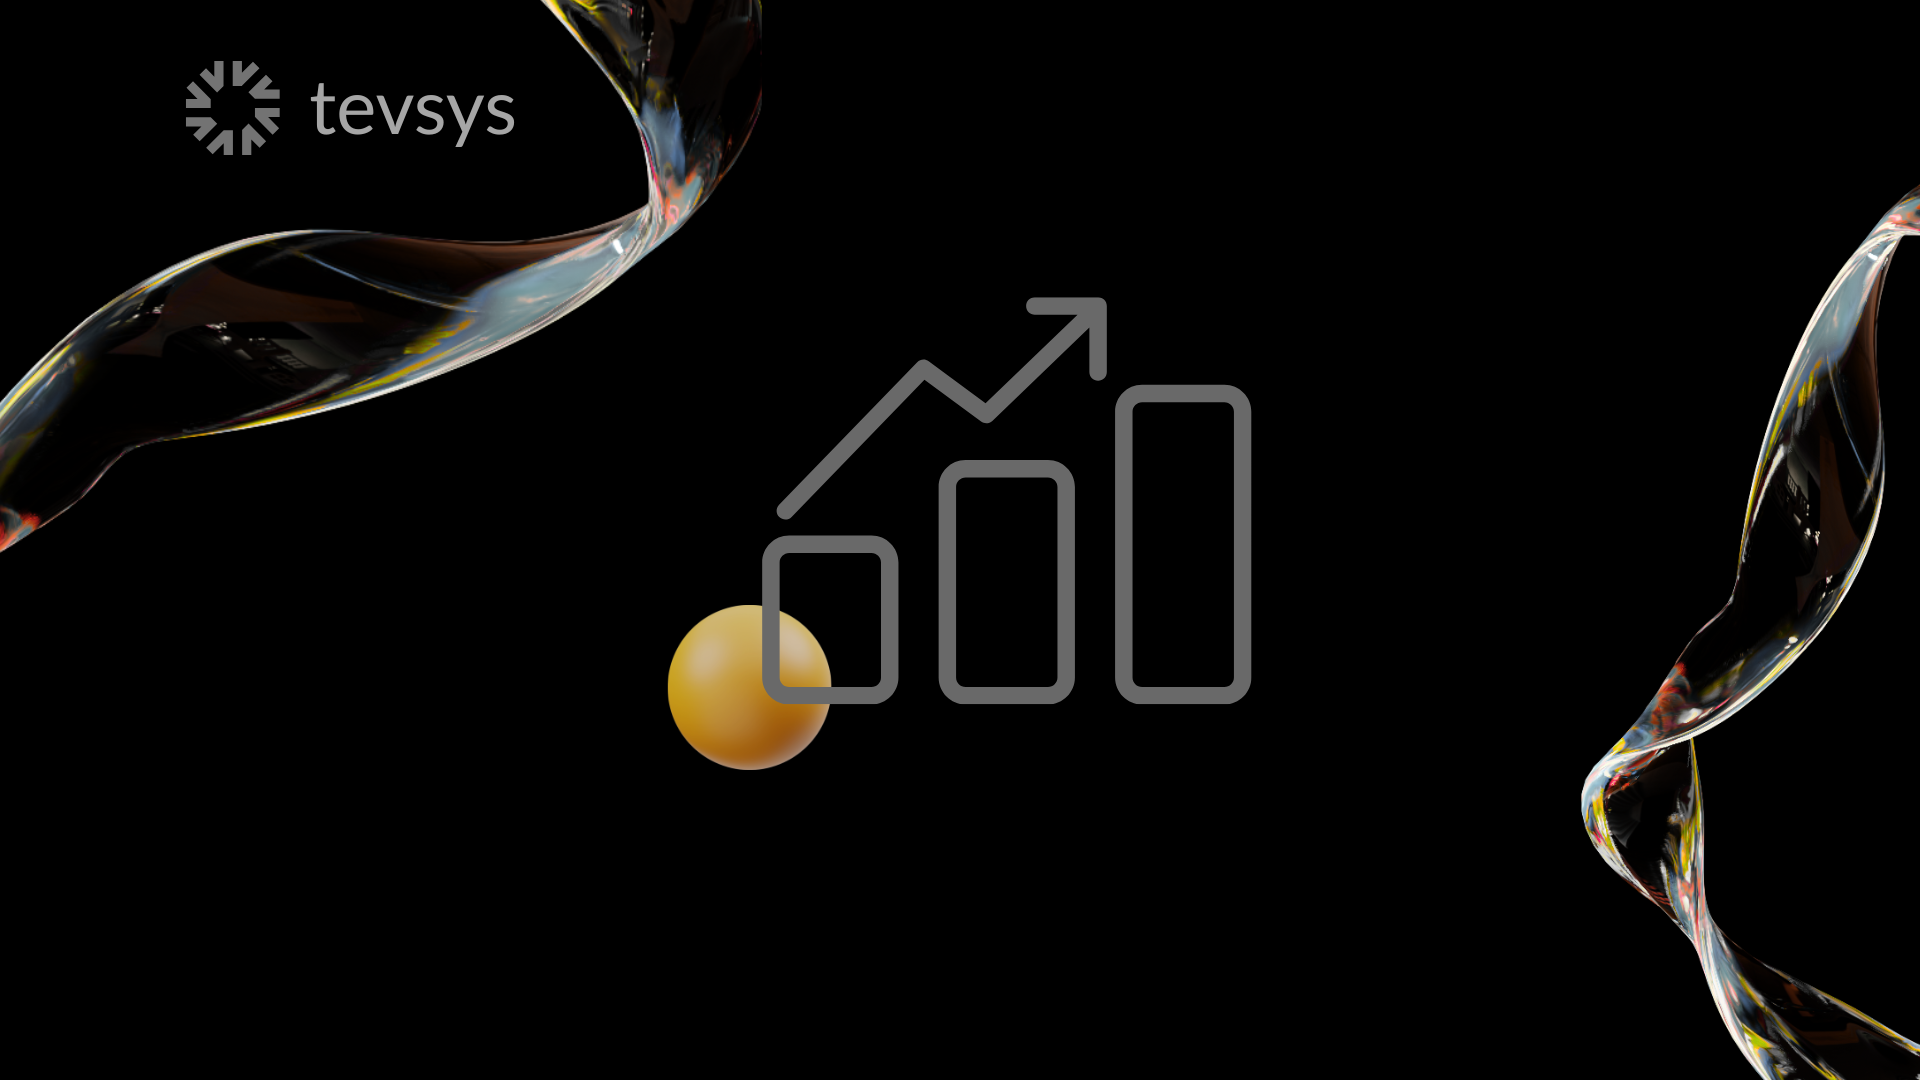
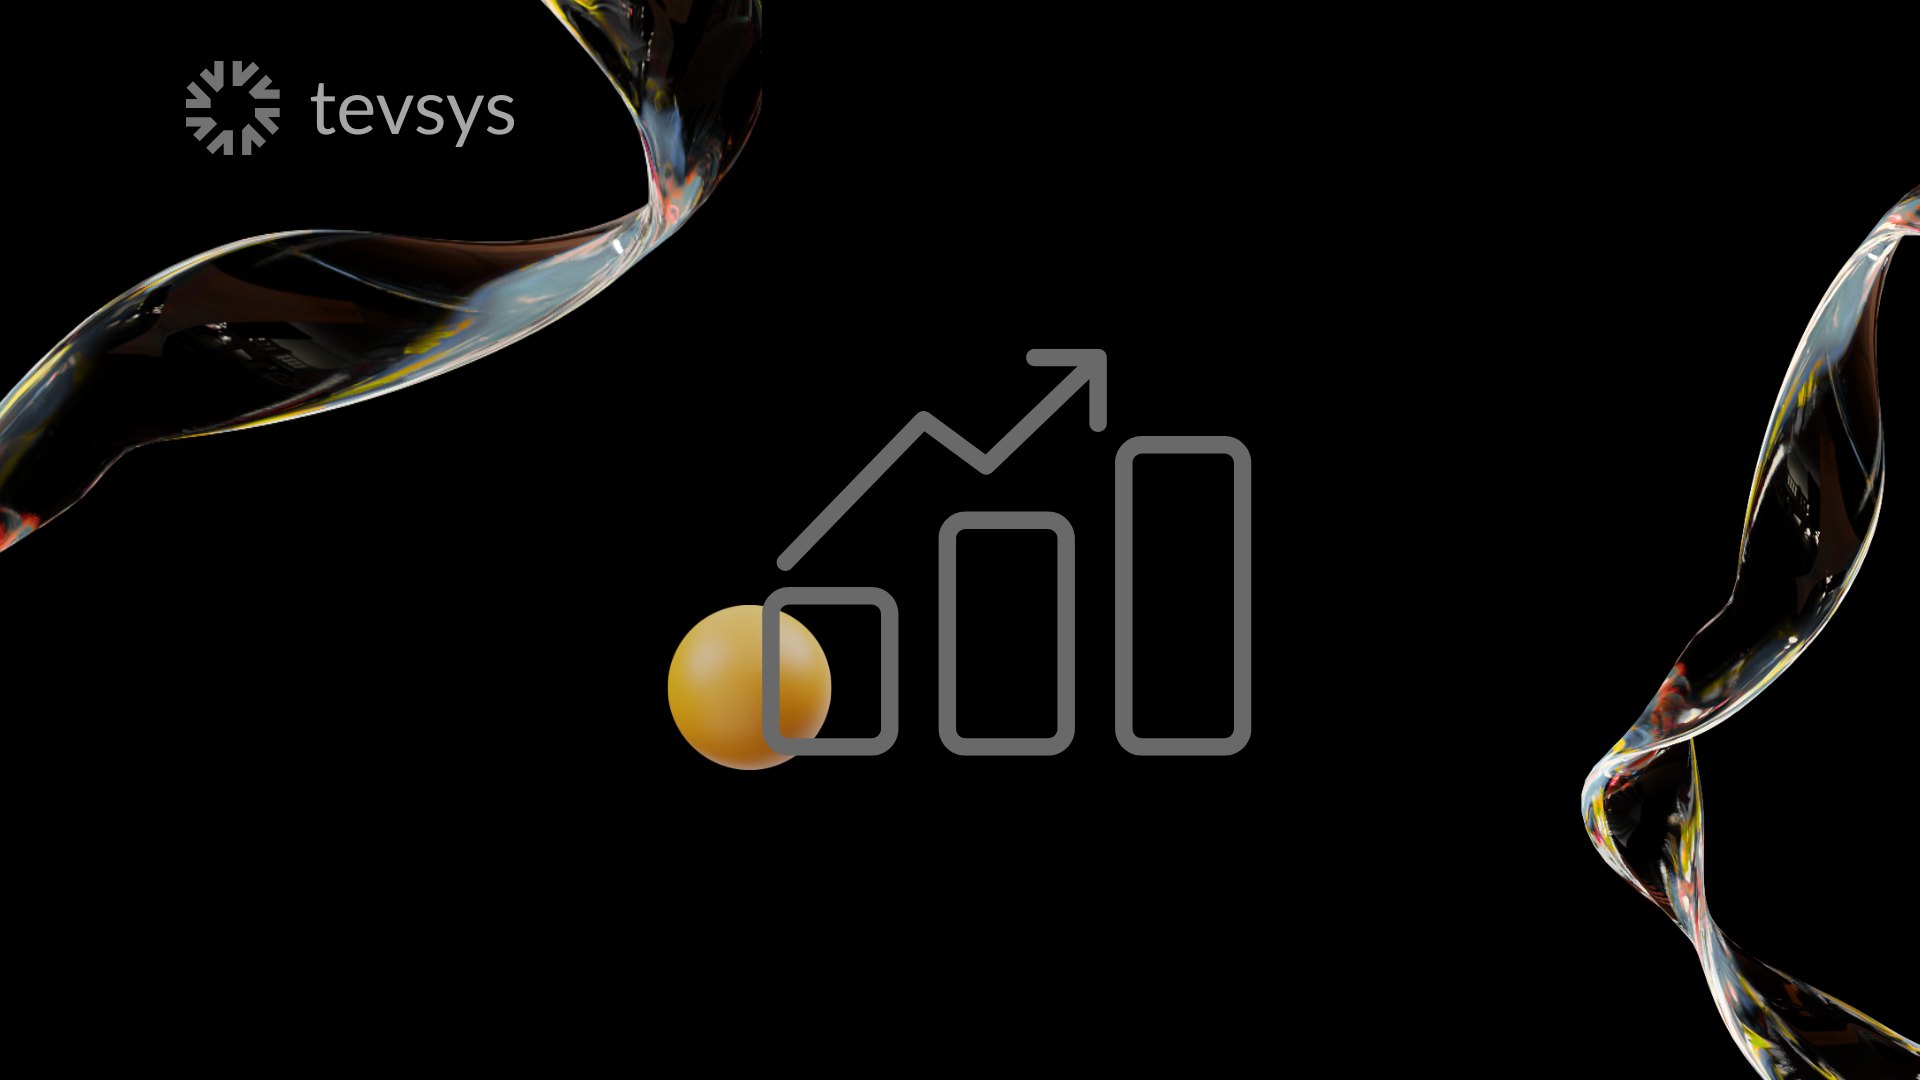
assets(web): card SML — gráfico reposicionado (card-3-sml v10)

Changed region(s): [[0.375, 0.275, 0.6562, 0.5806], [0.375, 0.6111, 0.6562, 0.7028]]

diff --git a/docs/ARREGLOS_WEB_TEVSYS_TODOS_LOS_ARCHIVOS.md b/docs/ARREGLOS_WEB_TEVSYS_TODOS_LOS_ARCHIVOS.md
@@ -18,7 +18,7 @@ Resumen técnico completo para revisión interna / DeepSeq.
 | `src/components/core/Header.astro` | Estilos del CTA en nav (botón blanco redondeado). **Abr 2026:** Inter, barra más baja, nav refinada; en `/` clase `tevsys-header--home-scanner` + capa escáner; motion escáner vía `global.css`. |
 | `src/components/head/BaseHead.astro` | Fuentes: **Inter**, **DM Sans** (H1 hero), Outfit según tema. **19 abr 2026:** carga alineada a tipografía hero + micropáginas. **Schema** JSON-LD, **preload** LCP hero WebP (home). |
 | `src/components/sections/heros/HomeHeroSection.astro` | Hero Mar 2026: imagen `mano robotica central web.png`, grid 1fr/2fr, alineación con «T», logo en etiqueta. Reflexión + commits: `REFLEXION_DISENO_HERO_FOOTER_MAR2026.md`, `CHANGELOG-TEVSYS.md` §27. **Abr 2026:** `hero-context-line`, ritmo vertical, halo, imagen con radio/filtros/viñeta. **19 abr 2026:** H1 **DM Sans** (`.hero-title`), mano/viñeta/marco iterados. |
-| `src/pages/index.astro` | 4 cards de valor (2x2), textos finales, imágenes nuevas, sección de planes con CTA por plan e imágenes finales. **Abr 2026:** marcado `tevsys-home-*`; Inter, cards/planes tonos gris oscuro, estructura card sin franja, legibilidad texto, card 1 PNG. **19 abr 2026:** accents `.feature-card__value-accent`; CTA planes secundario con estilo local donde aplica. **Card 1 Precisión:** `card-1-input.png` engranaje; **`?v=8`**. **Card 2 HyperClose:** `card-2-hyperclose.png` candado; **`?v=9`**. |
+| `src/pages/index.astro` | 4 cards de valor (2x2), textos finales, imágenes nuevas, sección de planes con CTA por plan e imágenes finales. **Abr 2026:** marcado `tevsys-home-*`; Inter, cards/planes tonos gris oscuro, estructura card sin franja, legibilidad texto, card 1 PNG. **19 abr 2026:** accents `.feature-card__value-accent`; CTA planes secundario con estilo local donde aplica. **Card 1 Precisión:** `card-1-input.png` engranaje; **`?v=8`**. **Card 2 HyperClose:** `card-2-hyperclose.png` candado; **`?v=9`**. **Card 3 SML:** `card-3-sml.png`; **`?v=10`**. |
 | `src/pages/company/contact.astro` | Contacto por plan con título simplificado + visual dinámico por `?plan=` (sin redundancia en encabezado). **19 abr 2026:** **Inter** explícita en copy + formulario (coherencia con micro-páginas). |
 | `src/components/forms/ContactForm.astro` | Badge de plan seleccionado + validación plan/capital + compatibilidad con `flow=demo`. |
 | `public/assets/images/home/cards/*` | Imágenes personalizadas de cards 1-4. |

diff --git a/docs/CHANGELOG-TEVSYS.md b/docs/CHANGELOG-TEVSYS.md
@@ -31,6 +31,12 @@ Registro completo de cambios aplicados en la landing de tevsys (base Odyssey The
 
 ---
 
+## Home — card 3 (SML): arte reposicionado (19 abr 2026)
+
+**Motivo:** Mejora de composición (gráfico + flecha). **Asset:** `public/assets/images/home/cards/card-3-sml.png` — `Downloads/card-3-sml.png`. **Web:** `index.astro` — **`?v=10`**.
+
+---
+
 ## Web — coherencia tipográfica, hero, cards, CTAs y micropáginas (19 abr 2026)
 
 **Objetivo:** Una sola lectura de producto (Inter + DM Sans solo en H1 home), negro unificado, CTAs demo idénticos, micropáginas alineadas y documentación al día con decisiones recientes.
